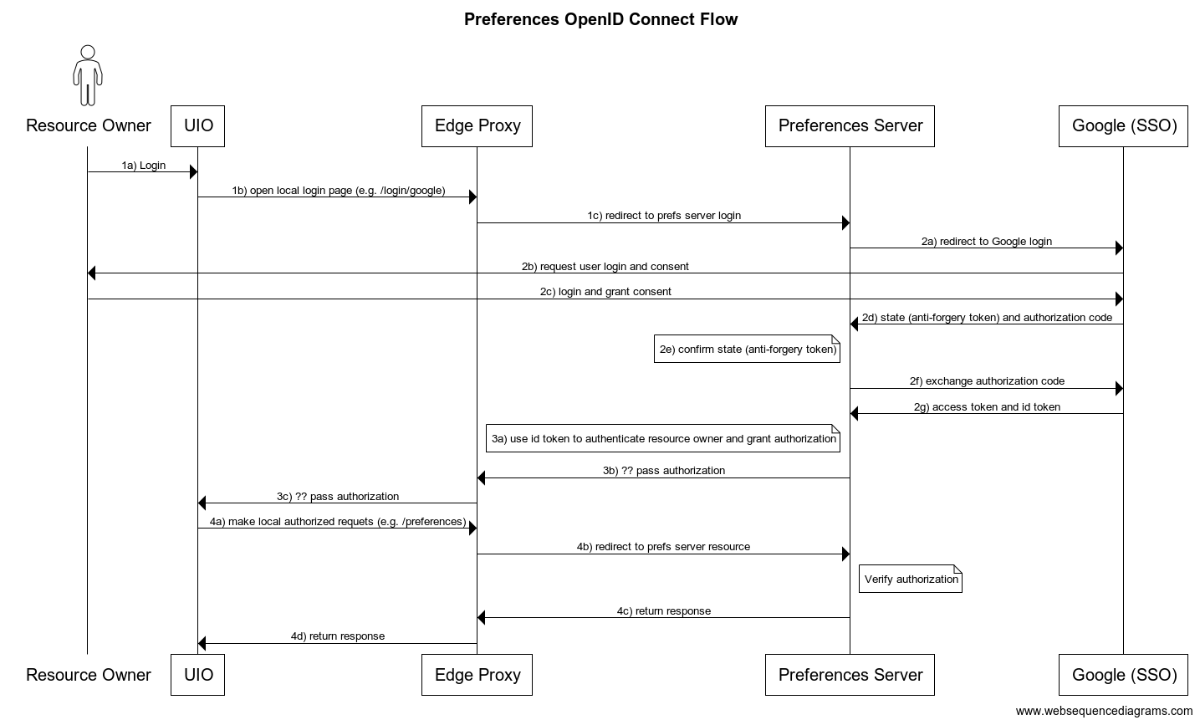
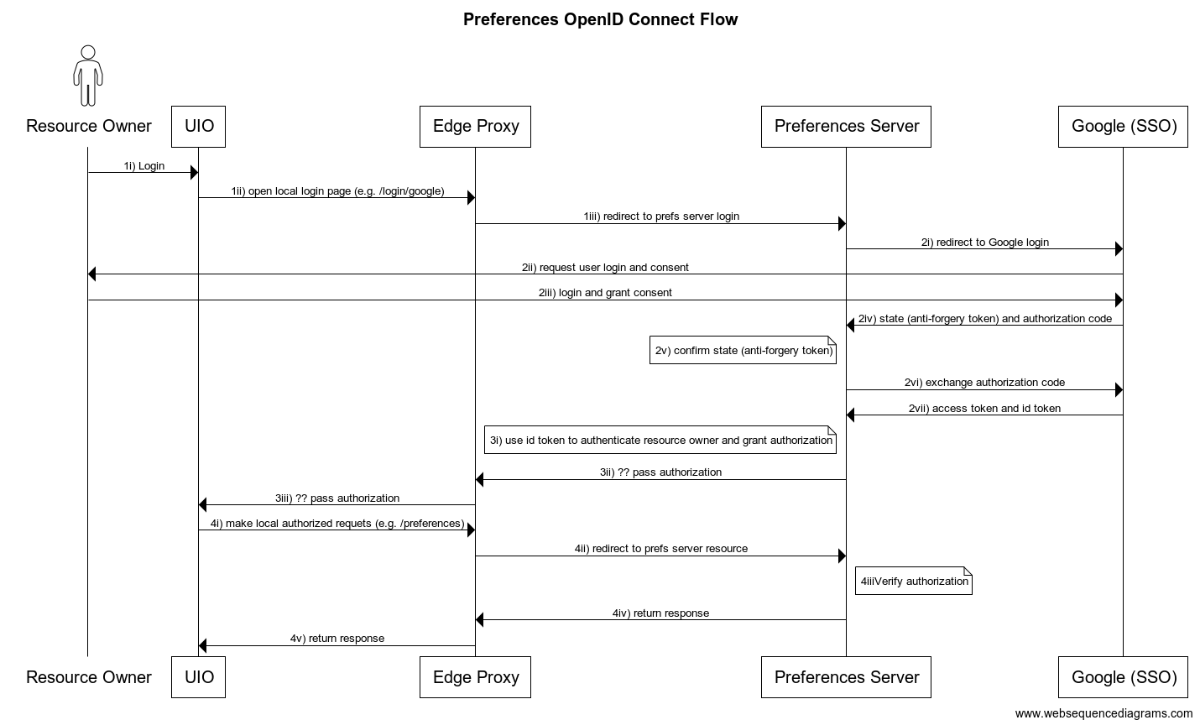
docs: wip: fix nested lists and add details regarding sso workflow

diff --git a/doc/StaticWorkflow.md b/doc/StaticWorkflow.md
@@ -37,65 +37,66 @@ displayed, which was used to document some of the details.
 ## Workflow Description
 
 1. Open login
-    a. Trigger login to Preferences server from UIO
-    b. UIO makes a local request handled by the Edge Proxy. This is to prevent
+    1. Trigger login to Preferences server from UIO
+    2. UIO makes a local request handled by the Edge Proxy. This is to prevent
        cross origin requests. e.g. `/login/google`
-    c. The Edge Proxy redirects this request to the proper endpoint on the
+    3. The Edge Proxy redirects this request to the proper endpoint on the
        Preferences Server.
 2. The Preferences Server sends the [authentication request](https://developers.google.com/identity/protocols/oauth2/openid-connect#sendauthrequest)
    to Google.
-    a. the authentication request includes the following as query parameters:
-        * `client_id` identifying the Preferences Server to Google
-        * `response_type` which is usually `code`
-        * `scope` which would likely be `openid email`
-        * `redirect_uri` which is the endpoint on the Preferences Server that
+   1. the authentication request includes the following as query parameters:
+      - `client_id` identifying the Preferences Server to Google
+      - `response_type` which is usually `code`
+      - `scope` which would likely be `openid email`
+      - `redirect_uri` which is the endpoint on the Preferences Server that
            will receive the response from Google. It must match the authorized
-           redirect URI that was pre-regisitered with Google.
-        * `state`, the anti-forgery unique session token
-    b. Login and consent:  The Resource Owner may be presented with a login
-       screen by Google in their domain, and asked to consent the requested
-       scope.
-        * If the user is already logged into Google, they will be presented
-          with the consent dialog unless they have previously consented.  In
-          that case, Google automatically authorizes the user and retrieves
-          their consent.
-    c. The Resource Owner authenticates with Google and grants consent
-    d. [Authorization code and anti-forgery](https://developers.google.com/identity/protocols/oauth2/openid-connect#confirmxsrftoken):
-       Google responds to the Preferences Server at the `redirect_uri` including:
-        * `state` anti-forgery token from step 1d
-        * `code` the authentication code provided by Google
-        * `scope` the scopes that the user consented to at step 2.
-    e. The Preferences Server confirms that the `state` (anti-forgery token) is
-       valid by checking that it matches the value it sent to Google in step 1d.
-    f. [Exchange Authorization Code](https://developers.google.com/identity/protocols/oauth2/openid-connect#exchangecode):
-       The Preferences Server requests exchanging the Authorization Code for an
-       Access Token and ID Token. This includes the following:
-        * `code`, the Authorization Code sent from the previous response from
-           Google
-        * `client_id` for the Preferences Server (same value as steps 2a and 2d)
-        * `redirect_uri` which is the endpoint on the Preferences Server that
-          will receive the response from Google (same value as step 2a and 2d)
-        * `grant_type` which must be set to `authorization_code`
-    g. Google responds at the previously specified redirect uri with the Access
-       Token and ID Token
-        * The `access_token` can be sent to Google to access the Google API
-        * The `id_token` is a [JWT](https://tools.ietf.org/html/rfc7519)
-          identifying the Resource Owner and is signed by Google.
+           redirect URI that was pre-registered with Google.
+      - `state`, the anti-forgery unique session token
+   2. Login and consent:  The Resource Owner may be presented with a login
+      screen by Google in their domain, and asked to consent the requested
+      scope.
+      - If the user is already logged into Google, they will be presented
+        with the consent dialog.
+   3. The Resource Owner authenticates with Google and grants consent
+      - If the user has previously provided consent, Google will present no
+        dialog, but will retrieve the scopes that have the user's consent.
+   4. [Authorization code and anti-forgery](https://developers.google.com/identity/protocols/oauth2/openid-connect#confirmxsrftoken):
+      Google responds to the Preferences Server at the `redirect_uri` including:
+      - `state` anti-forgery token from step 2i
+      - `code` the authentication code provided by Google
+      - `scope` the scopes that the user consented to at step 2iii.
+   5. The Preferences Server confirms that the `state` (anti-forgery token) is
+      valid by checking that it matches the value it sent to Google in step 2i.
+   6. [Exchange Authorization Code](https://developers.google.com/identity/protocols/oauth2/openid-connect#exchangecode):
+      The Preferences Server requests exchanging the Authorization Code for an
+      Access Token and ID Token. This includes the following:
+      - `code`, the Authorization Code sent from the previous response from
+         Google
+      - `client_id` for the Preferences Server (same value as steps 2i)
+      - `redirect_uri` which is the endpoint on the Preferences Server that
+         will receive the response from Google (same value as step 2i)
+      - `grant_type` which must be set to `authorization_code`
+   7. Google responds at the previously specified redirect uri with the Access
+      Token and ID Token
+      - The `access_token` can be used by the Preferences Server to access the Google API
+      - The `id_token` is a [JWT](https://tools.ietf.org/html/rfc7519)
+        identifying the Resource Owner and is signed by Google.
 3. Authenticate and Authorize UIO
-    a. Using the `id_token` the Preferences Server authenticates the Resource Owner
-    b. Somehow the Preferences Server passes back the authorization to the Edge
-       Proxy
-    c. Somehow the Edge Proxy passes back the authorization to UIO
+   1. Using the `id_token` the Preferences Server authenticates the Resource
+      Owner
+   2. Somehow the Preferences Server passes back the authorization to the Edge
+      Proxy
+   3. Somehow the Edge Proxy passes back the authorization to UIO
 4. Making Authorized Requests to the Preferences Server
-    a. Somehow, using the authorization, makes a local request to the
-       Preferences Server handled by the Edge Proxy. e.g. a GET request to
-       `/preferences`
-    b. Somehow, the Edge Proxy redirects this request to a Preferences Server
-       end point
-    c. Somehow, the Preferences Server validates the authorization of this
-       request
-    d. The Preferences Server responds to the Edge Proxy
-    e. The Edge Proxy responds to UIO
+   1. Somehow, using the authorization, makes a local request to the
+      Preferences Server handled by the Edge Proxy. e.g. a GET request to
+      `/preferences`
+   2. Somehow, the Edge Proxy redirects this request to a Preferences Server
+      end point
+   3. Somehow, the Preferences Server validates the authorization of this
+      request
+   4. The Preferences Server responds to the Edge Proxy
+   5. The Edge Proxy responds to UIO
 
 ## Questions
 
@@ -106,147 +107,76 @@ displayed, which was used to document some of the details.
    requests to Preferences Server API (see: 6a, 6b)?
 4. How does the Preferences Server verify UIO's authorization (see: 6c)?
 5. Can refresh tokens be used? How long will the `id_token` from Google be valid
-   and how long should the authorization of UIO with the Preferences Server be valid.
+   and how long should the authorization of UIO with the Preferences Server be
+   valid.
 
+## Single Sign On Details
 
-## Single Sign On Workflow Details
+This section gives more details regarding step 2 above; the part of the static
+workflow that is specific to authorization with an SSO provider.
 
-This section give more details regarding the portion of the static workflow that
-is specific to authorization with an SSO provider.
+### Client Information From SSO Provider
+
+Prior to executing the SSO workflow, the client must be registered with the SSO
+provider, with the result that the provider generates a client id and a client
+secret that identifies the Preferences Server to the SSO provider.  This client
+id and secret need to be stored in the Preferences Server's database to use when
+it sends requests of the provider.
+
+In the following, the REQUIRED, OPTIONAL, and RECOMMENDED descriptions of the
+request parmeters are taken from the [OAuth2 specification](https://tools.ietf.org/html/rfc6749#section-4.1.1)
+
+**2i**. The workflow begins with the Preferences Server requesting authorization
+from the provider:
 
 ```text
-In the following, the REQUIRED, OPTIONAL, and RECOMMENDED are as documented in
-the [OAuth2 specification](https://tools.ietf.org/html/rfc6749#section-4.1.1)
-
-Line feeds in the URLs are for clarity and to avoid long lines that scroll
-horizontally.
-
 GET https://accounts.google.com/o/oauth2/auth
-    ?client_id=:clientId&redirect_uri=:redirectUri&scope=:scope
-    &response_type=code&state-:state&access_type=offline
+```
+
+#### Parameters
+
+| Name             | Type     | Description |
+| ---              | ---      | ---         |
+| `client_id`      | `String` | __Required__. The client id of the Preferences Server, stored in an [`ApplicationProvider` record](#application-provider-data-model) |
+| `redirect_uri`   | `String` | __Recommended__. The endpoint of the Preferences Server where the provider redirects to upon successful authorization |
+| `scope`          | `String` | __Optional__. The scope of the access to the user's information as stored with the provider.  `openId` and `email` will ask for the user's Google profile and email address |
+| `response_type`  | `String` | __Required__. The value `code` will request an access token to use to access the user's Google information |
+| `state`          | `String` | __Recommended__. Anti-forgery unique session token |
+| `access_type`    | `String`, one of [`offline`, `online`] | __Optional__. Whether to return a refresh token with the access token (`offline`), defaults to `online` |
+
 Payload: none
 
-"Google, authorize a user to access the preferences server."
+Notes:
 
-Parameter breakdown:
-- client_id
-  - REQUIRED
-  - Generated by Google during a prior manual registration process.
-  - Stored by the client in its database.
-  - Passed to Google by the client when making this /o/oauth2/auth/ request
-  - This is the client_id associated with the preferences server.
-  - Stored in the proxy server's database?
-- redirect_uri
-  - RECOMMENDED
-  - Decided on by the client and set during the manual Google registration
-    process.  It is stored in Google's database.
-  - Used by Google at the end of its authorization process to call back to the
-    client.  Thus it must be an endpoint implemented by the client.
-  - Can also be used as another way to confirm that the client *is* legitimate
-    since it is known to both parties and can be checked.
-  - But, passing a redirect_uri that Google does not have registered is allowed,
-    and is a way to have multiple callbacks.
-    - It may be that even if the endpoint is different, the callback's host
-      domain must be identical to one registered with Google -- this
-      requires further invesitigation. For example, the redirect registered with
-      Google might be "preferences.org/callback/", but on this request, it's set
-      to "preferences.org/anothercallback/".  Same server, different end point.
-  - If no redirect_uri is specified, Google will use the one in its database
-    that was set at manual registration.
-- scope
-  - OPTIONAL
-  - defines which information about the user is shared by this authorization
-  - the format of this parameter is defined by Google, e.g. "profile" for user's
-    name and email; "openId" to get an OpenID JWT.  Other OAuth2 providers may
-    define their scopes differently.
-- response_type
-  - REQUIRED
-  - one of [code, token, or an extended type], depending on the workflow.
-  - "code" means this is a request for an authorization code, and, ultimately,
-    an access token.  The rest of this document assumes "code", but the "token"
-    work flow might be more appropriate for the proxy server scenario -- this
-    needs further investigation.
-  - "token" is used in the "Implicate Grant" workflow
-    (https://tools.ietf.org/html/rfc6749#section-4.2).  Here, the resource owner
-    (who is that?) asks the authorization server (Google) to first check the
-    client_id and redirect_uri against its known clients (the preferences
-    server is the client).  If they match, Google will somehow authenticate the
-    resource owner.  If successful, Google will respond with an access token,
-    sending it to the client -- skip to step 5.
-  - an extended type is a mutually defined type known to the client and provider
-    See "Defining New Types" in the OAuth2 spec: https://tools.ietf.org/html/rfc6749#se
-- state
-  - RECOMMENDED
-  - generated by the client and passed back-and-forth between the client and
-    Google for the duration of the OAuth2 process.  Another way both parties
-    can confirm that the exchange is legitimate.
-  - needs to be stored somewhere by the client for use throughout the
-    authorization process (see final step 5 below -- the client stores it inside
-    the same record as the one containing the access token).
-- access_type
-  - OPTIONAL and specific to Google's implementation of this endpoint.
-  - One of [online, offline]
-  - "Offline" means to return a refresh token in addition to an access token at
-    the point in the process where Google sends the access token (Step 5 below),
-    and whenever reauthentication requests are made of Google.
-  - "Online" means to not issue a refresh token.
-  - Google must store the access_type value.
-  - Client will store this vaue in its database when it receives the access
-    token (Step 5 below)
-```
+- The `access_type` is specific to Google's SSO.
 
-3. The login UI redirects the user back to the consumer’s space, now including
-   an AUTHORIZATION CODE in the URL - Step 2. This can be read from the
-   consumer’s origin by client or server-side code.
+**2ii, 2iii**.  Login and consent:  Google SSO redirects back to the Resource
+Owner’s space for their login credentials (e.g., user name and password), and
+their consent.  Since this is entirely Google's domain, the specifics of it are
+not documented here.  Assuming the user successfully logs in and provides the
+required consent, Google redirects back to the Preferences Server, as documented
+in the next step.
 
-```
-Specification reference for this step: https://tools.ietf.org/html/rfc6749#section-4.1.2
+**2iv**. Google redirects to the Preferences Server using the `redirect_uri`,
+passing an authorization code:
 
+```text
 GET https://<callback_uri>/
-    ?state=:state&code=:code
-    &scope=email profile openid https://www.googleapis.com/auth/userinfo.email https://www.googleapis.com/auth/userinfo.profile
-    &authuser=0&prompt=consent
-Payload: none
-"Preferences Server, I (Google) have authorized this user; here's an
-authorization code".
-
-- callback_uri
-  - The callback_uri either passed at the previous step, or the callback_uri
-    stored by Google in its database when the client was registerd with Google.
-  - Used as the client's endpoint for Google to inform the client that the user
-    was successfully authorized.
-- code
-  - REQUIRED
-  - The authorization code (random characters) generated by the authorization
-    server (Google).
-- state
-  - REQUIRED IF SENT BY CLIENT AT PREVIOUS STEP
-  - The same value that the client generated and sent to Google at the previous
-    step and used to check the legitimacy of this request.
-  - If no state was generated at the previous step, Google does not send a
-    state value on this callback request.
-- scope
-  - NOT PART OF THE OAUTH2 SPEC
-  - Sent by Google using their format specifying the scope of the access to
-    information about the user stored on Google's site.  For example:
-    - email
-    - profile
-    - https://www.googleapis.com/auth/userinfo.email
-    - https://www.googleapis.com/auth/userinfo.profile
-- authuser=0
-  - NOT PART OF THE OAUTH2 SPEC
-  - Sent by Google indicating ??? -- not sure what this is.
-- prompt=consent
-  - NOT PART OF THE OAUTH2 SPEC
-  - Sent by Google indicating ??? -- guess -- that consent was asked of the user
-    and they agreed.
 ```
+#### Parameters
 
-Comment:  the above is how OAuth2 normally works.  The requirement for the Edge
-Proxy is for the redirection, the `redirect_uri`, to return to the consumer's
-space, passing it the authorization code -- "Consumer
-(static-site-with-prefs-editor), I (Google) have authorized this user; here is
-an authorization code".  Can this be done?
+| Name             | Type     | Description |
+| ---              | ---      | ---         |
+| `code`           | `String` | __Required__. The authorization code (random characters) generated by Google's authorization service |
+| `state`          | `String` | __Required__. Anti-forgery unique session token sent to Google by the Preferences Server in step 2i. |
+| `scope`          | `String` | The scope of access to the user's information as stored with Google. |
+
+Payload: None
+
+Notes:
+- Reference: [OAuth2 Specification](https://tools.ietf.org/html/rfc6749#section-4.1.2) of this step.
+
+**CONTINUE EDITING FROM HERE**
 
 4. Step 3 - this is then separately provided to the /access_token endpoint to
    exchange for an access token which can be used in further requests for
@@ -257,7 +187,7 @@ an authorization code".  Can this be done?
      maintained securely in its configuration and fished out when it receives a
      matching request from the edge server.
 
-```
+```text
 OAuth2: https://tools.ietf.org/html/rfc6749#section-4.1.3
 
 POST https://accounts.google.com/o/oauth2/token
@@ -310,7 +240,7 @@ Note that GPII stored the client_id and client_secret as part of the
      grant types have any implications at all for the implementation of the edge
      and proxy servers?
 
-```
+```text
 OAuth2: https://tools.ietf.org/html/rfc6749#section-4.1.4
 
 "Preferences Server, here is your access token."

diff --git a/doc/images/StaticAuthWorkflowDiagram.md b/doc/images/StaticAuthWorkflowDiagram.md
@@ -8,22 +8,22 @@ downloaded and save as "StaticAuthWorkflow.png".
 title Preferences OpenID Connect Flow
 actor Resource Owner
 
-Resource Owner->UIO: 1a) Login
-UIO->Edge Proxy: 1b) open local login page (e.g. /login/google)
-Edge Proxy->Preferences Server: 1c) redirect to prefs server login
-Preferences Server->Google (SSO): 2a) redirect to Google login
-Google (SSO)->Resource Owner: 2b) request user login and consent
-Resource Owner->Google (SSO): 2c) login and grant consent
-Google (SSO)->Preferences Server: 2d) state (anti-forgery token) and authorization code
-note left of Preferences Server: 2e) confirm state (anti-forgery token)
-Preferences Server->Google (SSO): 2f) exchange authorization code
-Google (SSO)->Preferences Server: 2g) access token and id token
-note left of Preferences Server: 3a) use id token to authenticate resource owner and grant authorization
-Preferences Server->Edge Proxy: 3b) ?? pass authorization
-Edge Proxy->UIO: 3c) ?? pass authorization
-UIO->Edge Proxy: 4a) make local authorized requets (e.g. /preferences)
-Edge Proxy->Preferences Server: 4b) redirect to prefs server resource
-note right of Preferences Server: Verify authorization
-Preferences Server->Edge Proxy: 4c) return response
-Edge Proxy->UIO: 4d) return response
+Resource Owner->UIO: 1i) Login
+UIO->Edge Proxy: 1ii) open local login page (e.g. /login/google)
+Edge Proxy->Preferences Server: 1iii) redirect to prefs server login
+Preferences Server->Google (SSO): 2i) redirect to Google login
+Google (SSO)->Resource Owner: 2ii) request user login and consent
+Resource Owner->Google (SSO): 2iii) login and grant consent
+Google (SSO)->Preferences Server: 2iv) state (anti-forgery token) and authorization code
+note left of Preferences Server: 2v) confirm state (anti-forgery token)
+Preferences Server->Google (SSO): 2vi) exchange authorization code
+Google (SSO)->Preferences Server: 2vii) access token and id token
+note left of Preferences Server: 3i) use id token to authenticate resource owner and grant authorization
+Preferences Server->Edge Proxy: 3ii) ?? pass authorization
+Edge Proxy->UIO: 3iii) ?? pass authorization
+UIO->Edge Proxy: 4i) make local authorized requets (e.g. /preferences)
+Edge Proxy->Preferences Server: 4ii) redirect to prefs server resource
+note right of Preferences Server: 4iiiVerify authorization
+Preferences Server->Edge Proxy: 4iv) return response
+Edge Proxy->UIO: 4v) return response
 ```
